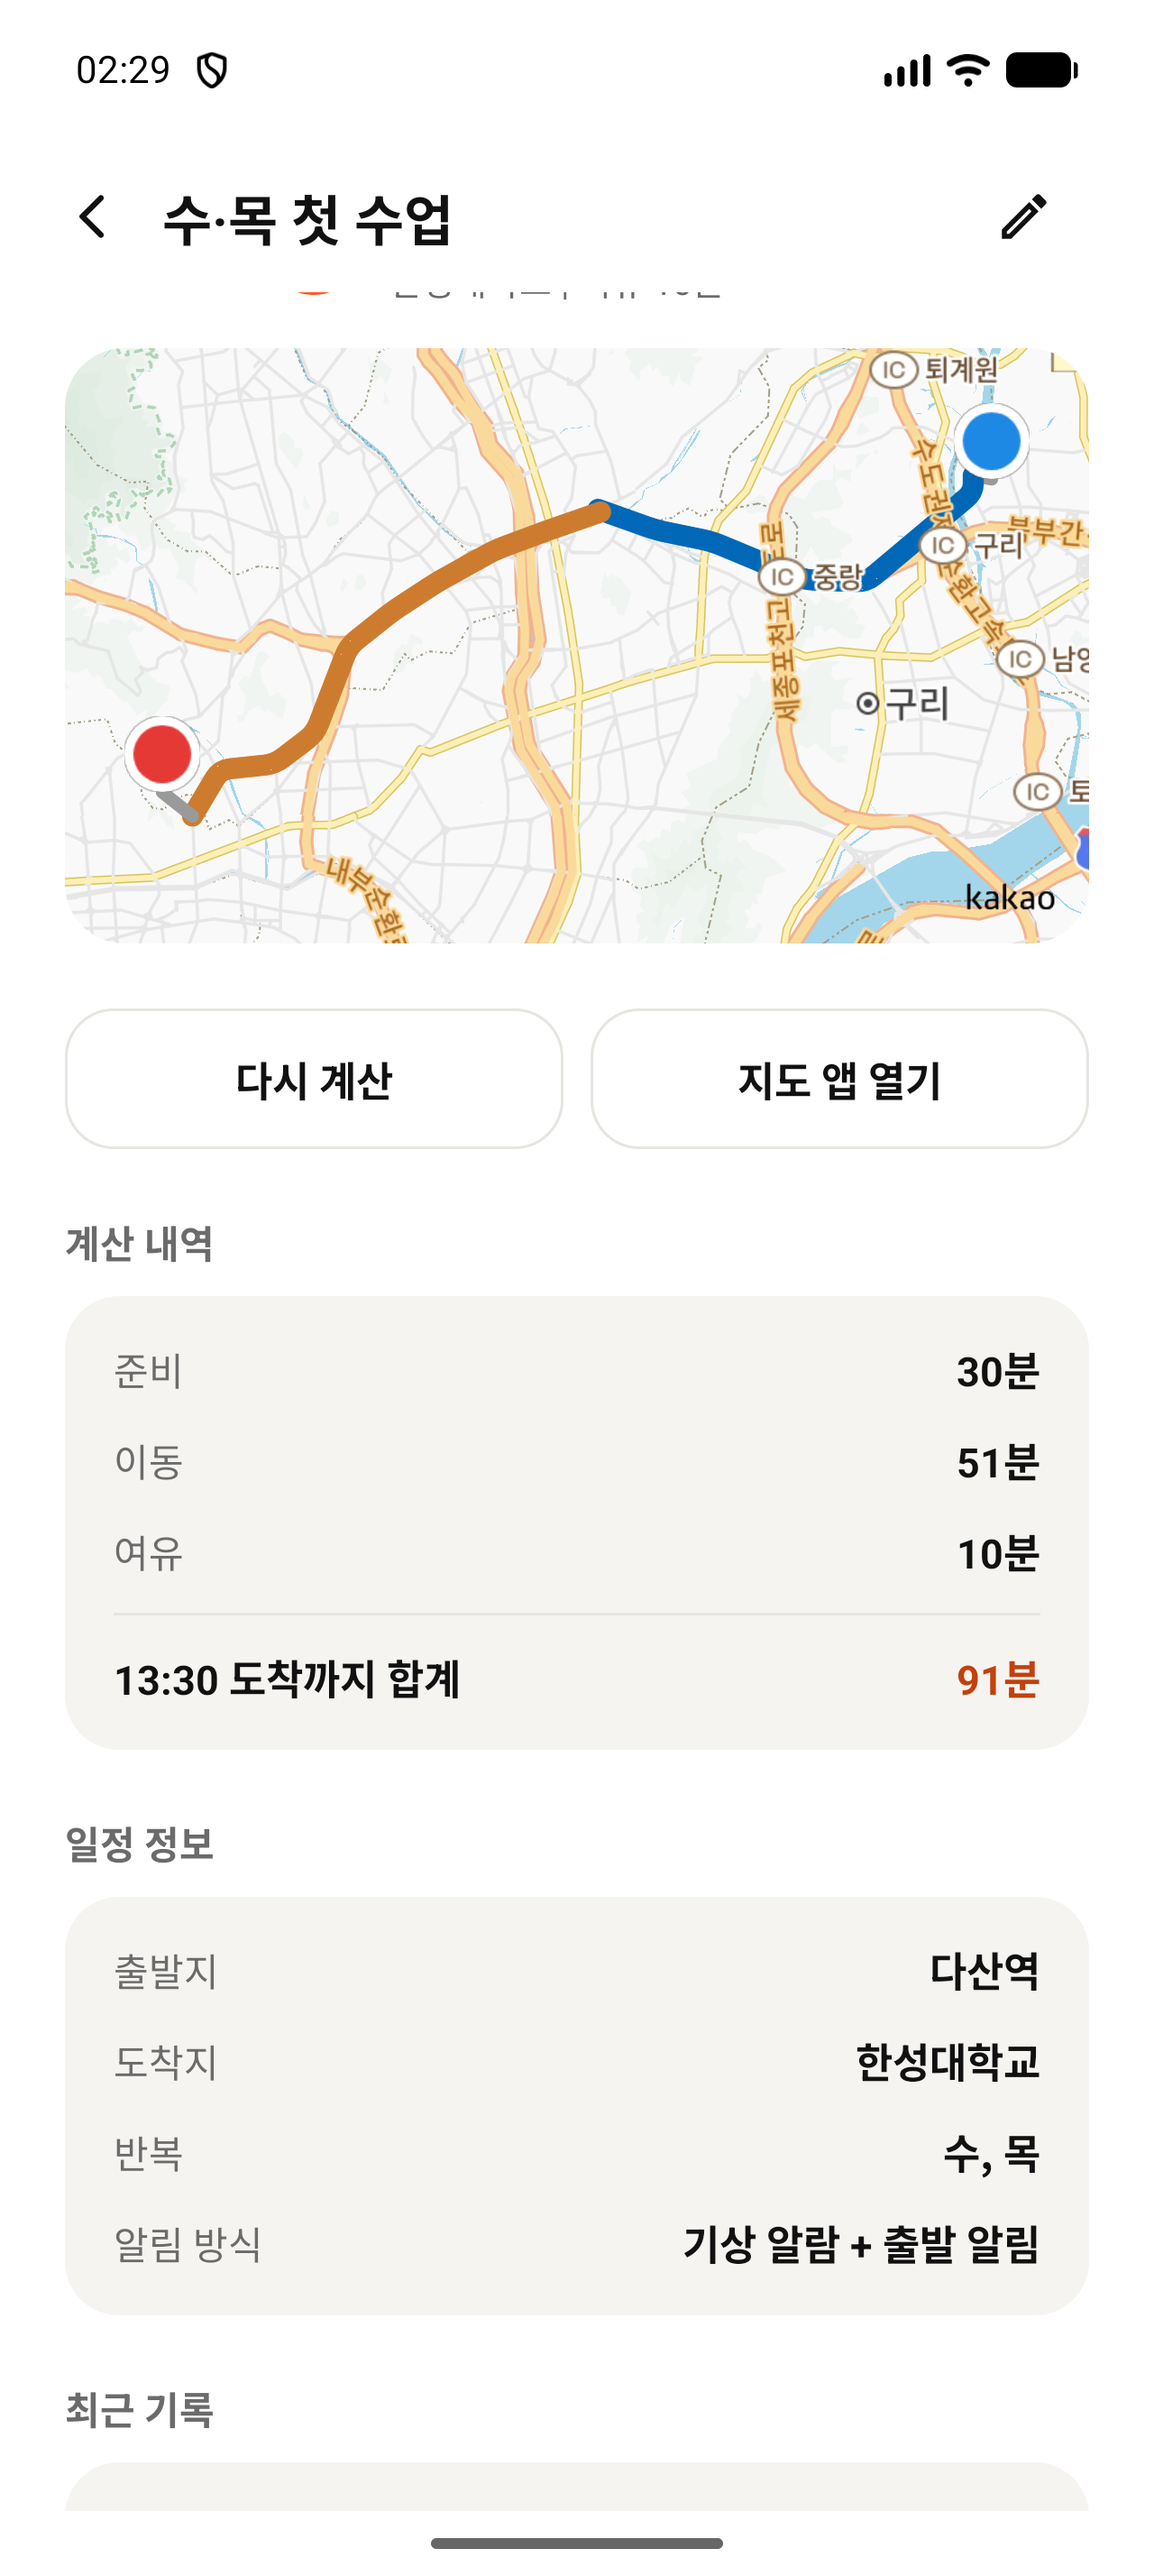
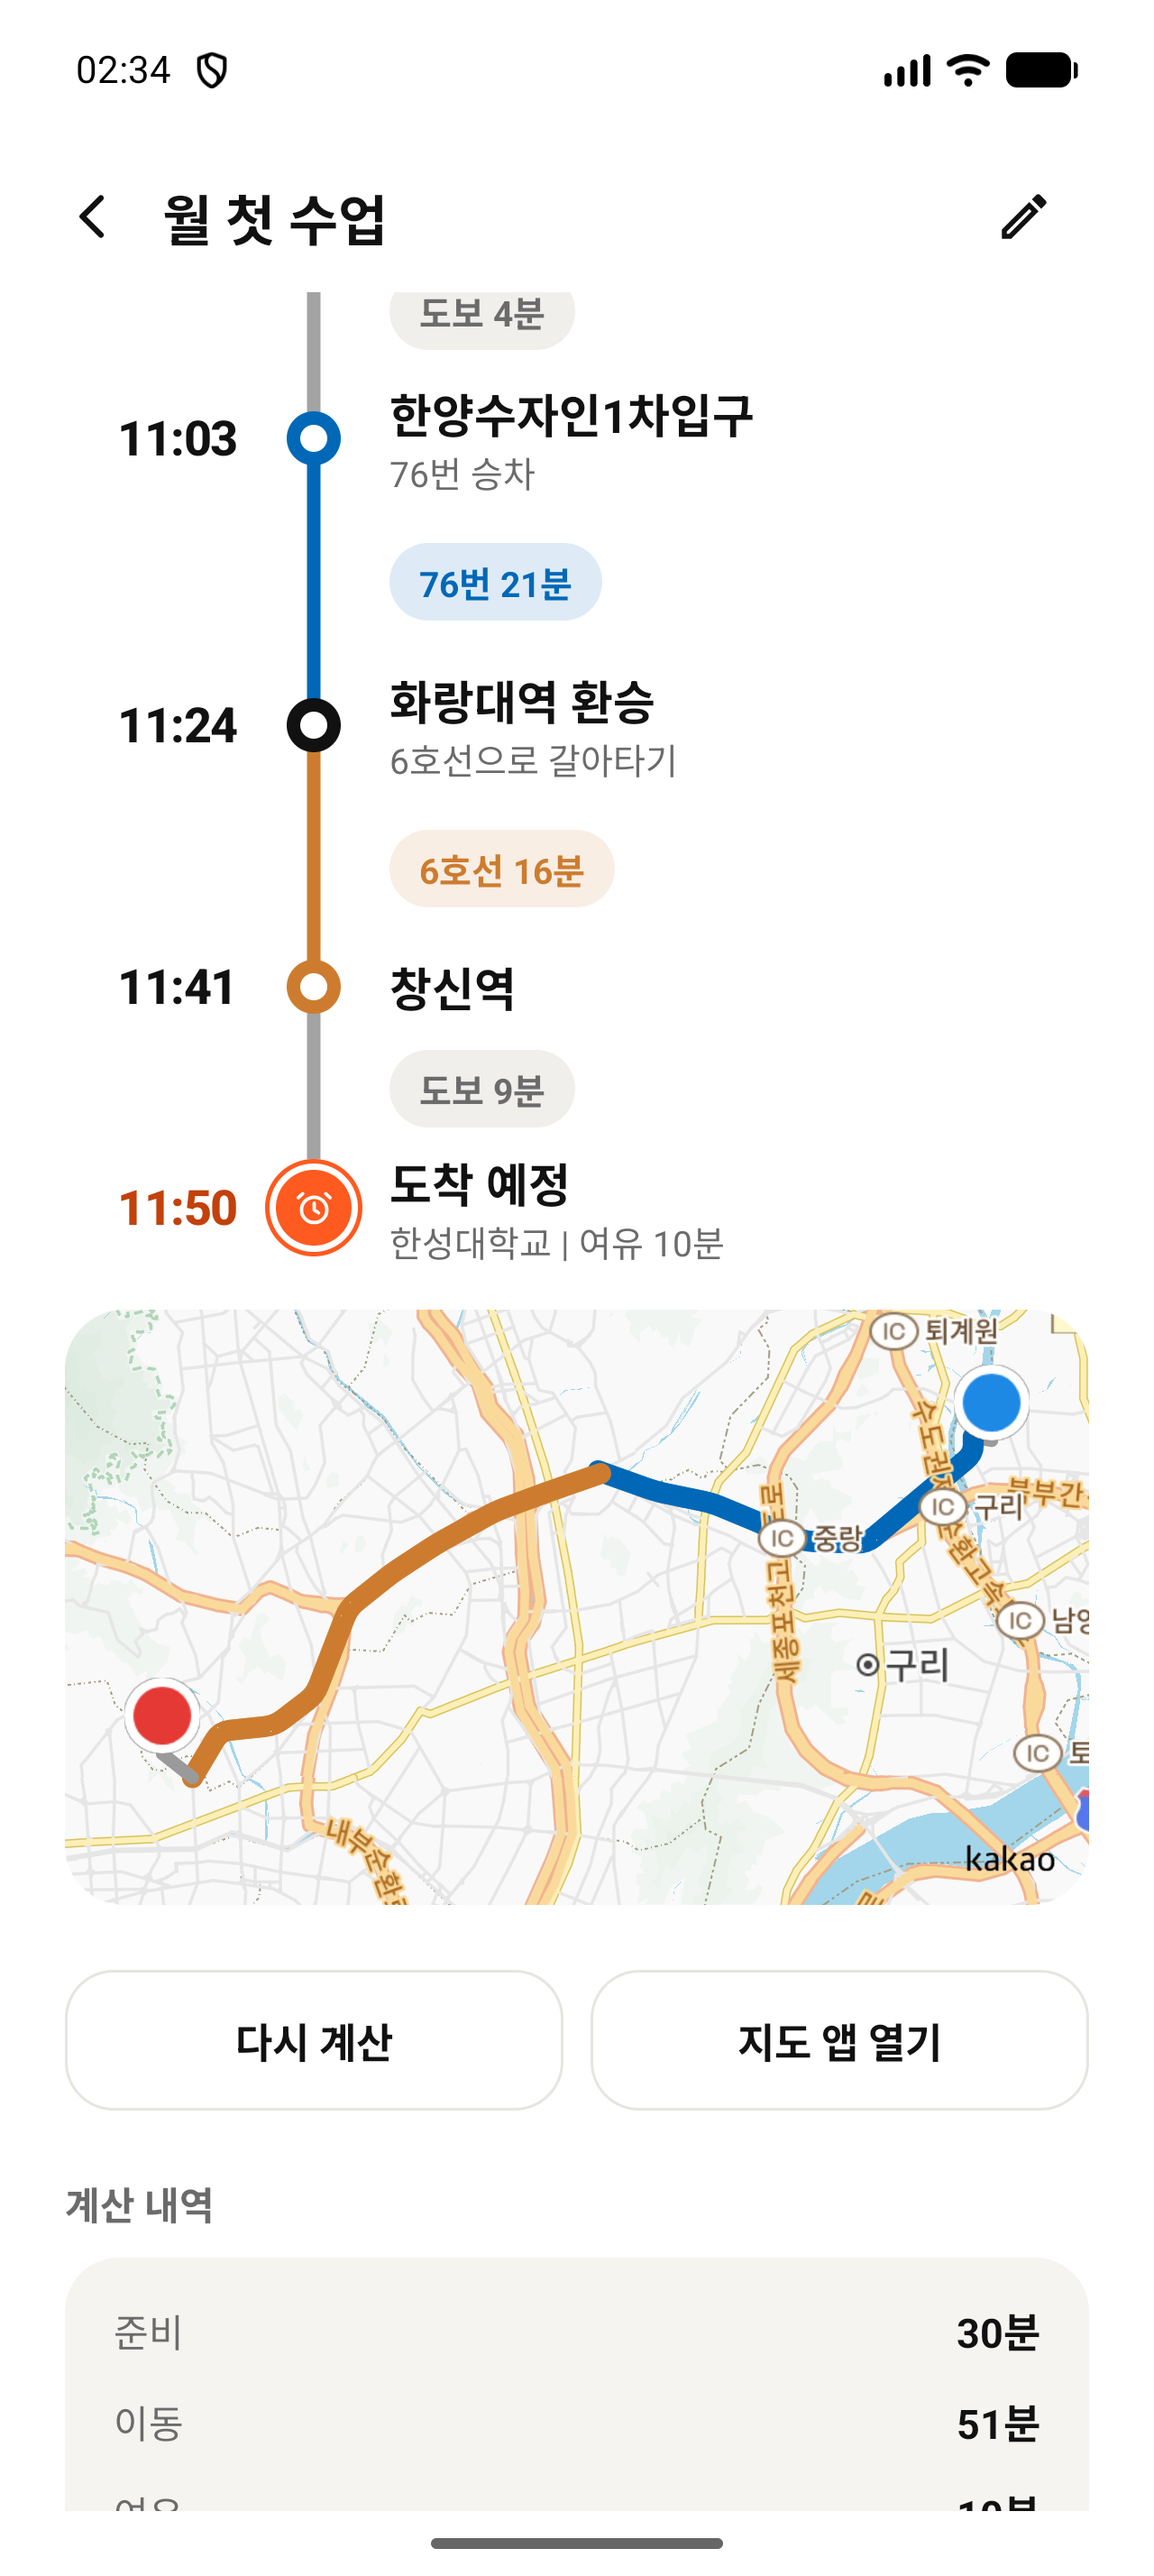
문서: 시간표 사진 인식·수업 수정·첫 수업 알람·캘린더 연동·경로 지도 스크린샷으로 README 갱신

diff --git a/README.md b/README.md
@@ -94,7 +94,7 @@ Kotlin · Jetpack Compose · Clean Architecture(MVVM) · Hilt · Room · DataSto
 | UI-F-004 | 학교 시간표 | `timetable/TimetableScreen.kt` |
 | UI-F-005 | 캘린더 연동 | `calendar/CalendarImportScreen.kt` |
 
-에뮬레이터(Pixel 10 Pro, Android 17)에서 배포 서버의 실제 데이터로 캡처한 화면이다(다산역 → 한성대학교, 평일 09:00 도착). 자동 조정·변경 추천 두 장은 실제 교통 지연을 마음대로 만들 수 없어, 가짜 지연을 넣을 수 있던 이전 버전에서 캡처한 화면이다.
+에뮬레이터(Pixel 10 Pro, Android 17)에서 배포 서버의 실제 데이터로 캡처한 화면이다(다산역 → 한성대학교). 알람 목록의 요일별 알람은 아래 학교 시간표에서 만든 것이다. 자동 조정·변경 추천 두 장은 실제 교통 지연을 마음대로 만들 수 없어, 가짜 지연을 넣을 수 있던 이전 버전에서 캡처한 화면이다.
 
 | 온보딩 | 홈 | 일정 만들기 (장소) | 도착 시각 (휠) |
 |---|---|---|---|
@@ -104,9 +104,19 @@ Kotlin · Jetpack Compose · Clean Architecture(MVVM) · Hilt · Room · DataSto
 |---|---|---|---|
 | ![준비 시간](docs/screenshots/preparation.png) | ![결과](docs/screenshots/result.png) | ![알람](docs/screenshots/alarms.png) | ![상세](docs/screenshots/detail.png) |
 
-| 설정 | 기상 알람 |
+| 일정 상세 — 경로 지도 (카카오맵) | 설정 (연동 메뉴) |
 |---|---|
-| ![설정](docs/screenshots/settings.png) | ![알람 울림](docs/screenshots/ringing.png) |
+| ![경로 지도](docs/screenshots/detail-map.png) | ![설정](docs/screenshots/settings.png) |
+
+학교 시간표는 에브리타임 시간표 캡처(2026년 2학기) 한 장으로 테스트했다. 사진을 고르면 기기 안에서 글자를 읽어 요일별 수업으로 바꾸고, 틀린 곳은 눌러서 고친 뒤, 요일마다 첫 수업에 맞춘 알람을 만든다. 캘린더 화면의 일정은 에뮬레이터 캘린더에 넣은 시연용 일정이다.
+
+| 시간표 사진 인식 | 수업 수정 | 첫 수업 알람 만들기 | 캘린더 연동 |
+|---|---|---|---|
+| ![시간표 인식](docs/screenshots/timetable.png) | ![수업 수정](docs/screenshots/timetable-edit.png) | ![시간표 알람](docs/screenshots/timetable-alarms.png) | ![캘린더](docs/screenshots/calendar.png) |
+
+| 기상 알람 |
+|---|
+| ![알람 울림](docs/screenshots/ringing.png) |
 
 | PRO 페이월 | 단체 이용권 | 구독 관리 | 테마 선택 |
 |---|---|---|---|
